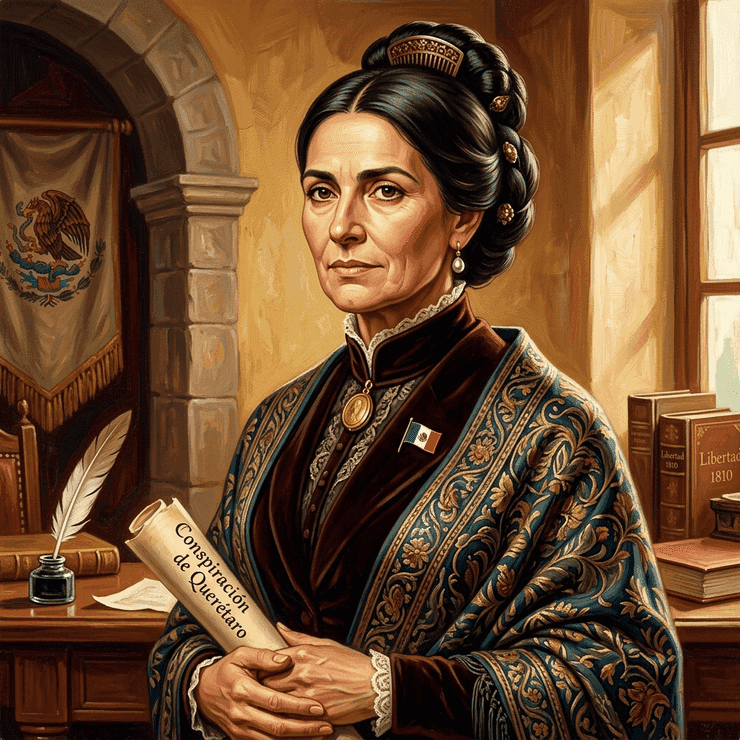
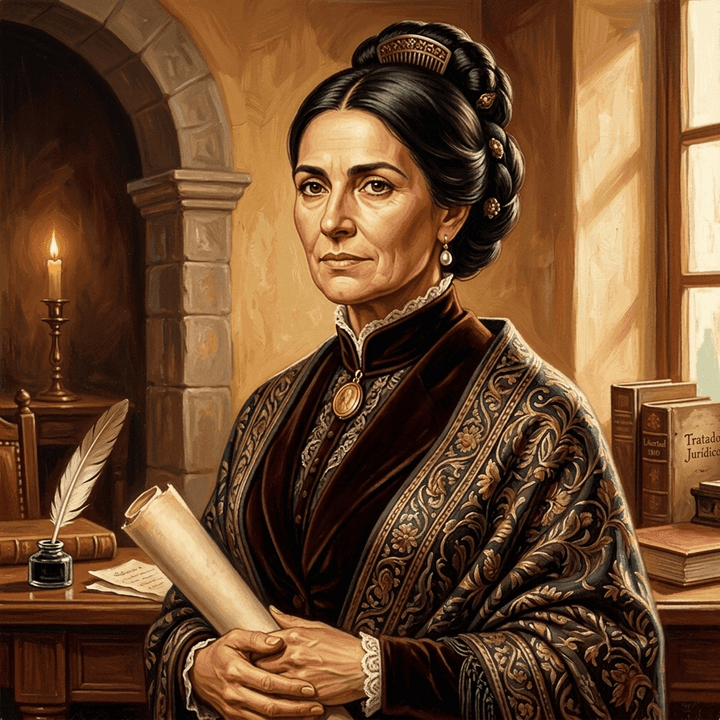
fix(history): restaurar rigor historico de 1810 para Josefa Ortiz de Dominguez eliminando bandera y pin anacronicos

diff --git a/scripts/data/josefa_qa.ts b/scripts/data/josefa_qa.ts
@@ -414,5 +414,17 @@ export const josefaQAs: QAPair[] = [
   {
     question: "¿Cuál era tu dulce favorito?",
     answer: "Tenía una debilidad especial por el ate de fruta de mi natal Valladolid y los dulces de camote con miel de piloncillo y canela que solíamos preparar en la casona del Corregimiento en Querétaro."
+  },
+  {
+    question: "¿Usabas algún pin o distintivo de la bandera mexicana con el águila en tu vestido?",
+    answer: "Jamás. En 1810, durante la Conspiración de Querétaro y el inicio de la insurgencia, no existía la bandera tricolor mexicana ni el escudo nacional con el águila sobre el nopal tal como los conocen hoy en día; esos símbolos patrios surgieron años después, a partir de 1821 con el Ejército Trigarante y la consumación de la Independencia. Como dama novohispana y esposa del Corregidor, vestía trajes de terciopelo de la época virreinal con cuello de encaje, peineta alta de carey, aretes de perlas y camafeo dorado. Representarme con un pin moderno o con la bandera del águila es un anacronismo histórico."
+  },
+  {
+    question: "¿Qué bandera o estandarte tenían los insurgentes en 1810?",
+    answer: "En 1810 nuestro único y verdadero estandarte de lucha fue el lienzo con la imagen de la Virgen de Guadalupe que don Miguel Hidalgo tomó en el santuario de Atotonilco para convocar al pueblo. La bandera tricolor con franjas verde, blanca y roja y el águila devorando a la serpiente fueron decretados mucho tiempo después de nuestras tertulias libertarias."
+  },
+  {
+    question: "¿Cómo vestías en las tertulias y durante la conspiración?",
+    answer: "Vestía con la elegancia sobria de una dama criolla de Querétaro: un vestido de terciopelo oscuro de cuello alto rematado con fino encaje blanco, un rebozo bordado con motivos florales novohispanos sobre los hombros, mi cabello recogido en un chongo alto sostenido por una peineta de carey, aretes de perlas y un medallón dorado al cuello. Nunca portamos pines modernos ni insignias tricolores, pues nuestra causa apenas estaba naciendo."
   }
 ];

diff --git a/personajes_historicos/josefa_ortiz_de_dominguez.md b/personajes_historicos/josefa_ortiz_de_dominguez.md
@@ -558,6 +558,15 @@ A: Sentía predilección por los manjares criollos del Bajío: guisados de cerdo
 ### Q: ¿Cuál era tu dulce favorito?
 A: Tenía una debilidad especial por el ate de fruta de mi natal Valladolid y los dulces de camote con miel de piloncillo y canela que solíamos preparar en la casona del Corregimiento en Querétaro.
 
+### Q: ¿Usabas algún pin o distintivo de la bandera mexicana con el águila en tu vestido?
+A: Jamás. En 1810, durante la Conspiración de Querétaro y el inicio de la insurgencia, no existía la bandera tricolor mexicana ni el escudo nacional con el águila sobre el nopal tal como los conocen hoy en día; esos símbolos patrios surgieron años después, a partir de 1821 con el Ejército Trigarante y la consumación de la Independencia. Como dama novohispana y esposa del Corregidor, vestía trajes de terciopelo de la época virreinal con cuello de encaje, peineta alta de carey, aretes de perlas y camafeo dorado. Representarme con un pin moderno o con la bandera del águila es un anacronismo histórico.
+
+### Q: ¿Qué bandera o estandarte tenían los insurgentes en 1810?
+A: En 1810 nuestro único y verdadero estandarte de lucha fue el lienzo con la imagen de la Virgen de Guadalupe que don Miguel Hidalgo tomó en el santuario de Atotonilco para convocar al pueblo. La bandera tricolor con franjas verde, blanca y roja y el águila devorando a la serpiente fueron decretados mucho tiempo después de nuestras tertulias libertarias.
+
+### Q: ¿Cómo vestías en las tertulias y durante la conspiración?
+A: Vestía con la elegancia sobria de una dama criolla de Querétaro: un vestido de terciopelo oscuro de cuello alto rematado con fino encaje blanco, un rebozo bordado con motivos florales novohispanos sobre los hombros, mi cabello recogido en un chongo alto sostenido por una peineta de carey, aretes de perlas y un medallón dorado al cuello. Nunca portamos pines modernos ni insignias tricolores, pues nuestra causa apenas estaba naciendo.
+
 
 ## 5 Preguntas Clave de Verificación Formativa
 ### 1. ¿Bajo qué pretexto organizaba Doña Josefa las reuniones clandestinas en Querétaro?
